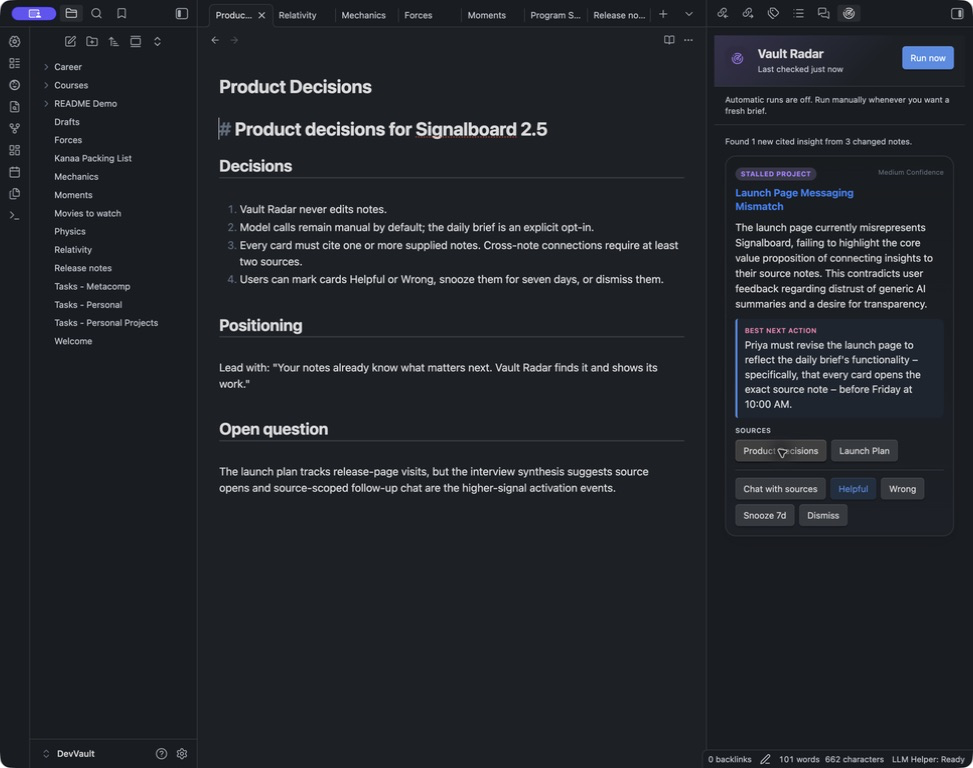
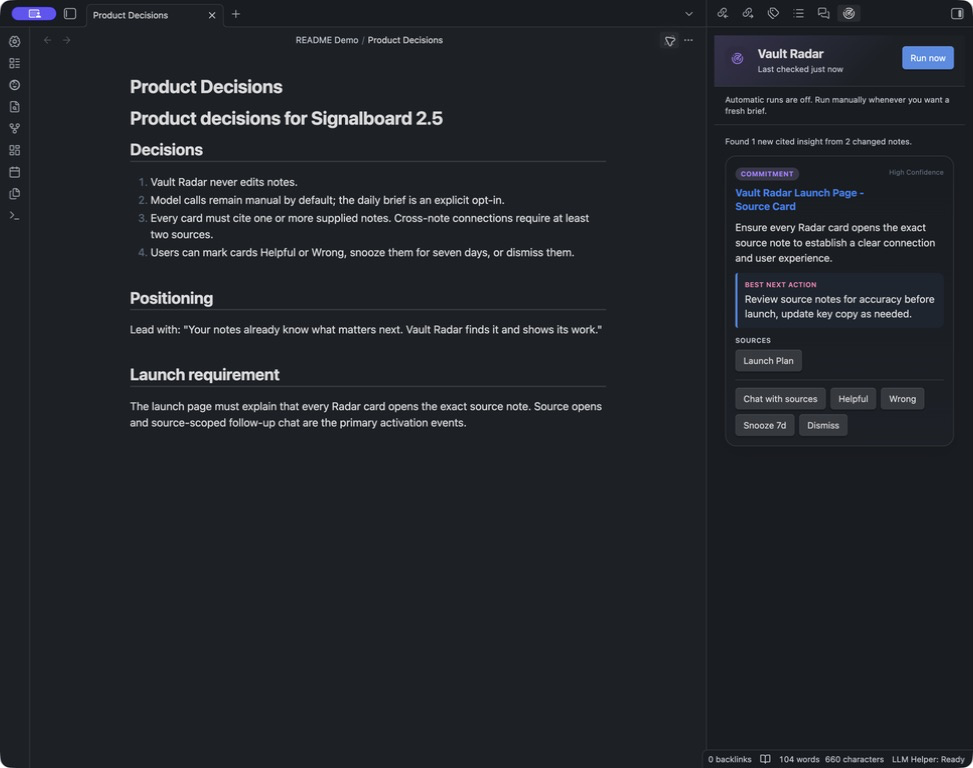
docs: refresh README visuals and architecture

diff --git a/README.md b/README.md
@@ -29,11 +29,13 @@
 
 <p align="center">
   <img src="assets/vault-radar.png" width="920" alt="Vault Radar beside a cited source note in Obsidian">
+  <br>
+  <sub>Vault Radar turns changed notes into a small, cited brief. Captured in a synthetic demo vault with file navigation hidden.</sub>
 </p>
 
-## Not another chat box
+## From questions to signals
 
-Most AI note tools wait for the perfect prompt. Local LLM Helper can also surface what your recent notes imply:
+Chat is useful when you know what to ask. Vault Radar adds another loop: it turns recently changed notes into a small, cited brief you can inspect without composing a prompt. It can surface:
 
 - a commitment that is about to slip;
 - a project blocked by an unresolved decision;
@@ -53,26 +55,59 @@ That is **Vault Radar**. Every card cites the exact Markdown notes behind it. Op
 | **Review workflows** | Draft weekly reviews, meeting tasks, and project updates from indexed context. Every write still requires approval. |
 | **Bring your own model** | Use Ollama, LM Studio, vLLM, LocalAI, OpenAI, or another server with OpenAI-compatible endpoints. |
 
+## How it works
+
+Local LLM Helper runs inside Obsidian. It sends only the context needed for the feature you invoke, then keeps its semantic index and plugin state locally in your vault.
+
+```mermaid
+flowchart LR
+    subgraph Device["Your device"]
+        V["Markdown vault"] --> P["Local LLM Helper"]
+        P --> R["Radar excerpts + direct prompts"]
+        P --> N["Note chunks"]
+        P --> T["Question, active note, or selection"]
+        X["Local vector index"] --> S["Local similarity search"]
+        Y["Query vector"] --> S
+        S --> Q["Scoped prompt + retrieved context"]
+        O["Cited answers, cards, and drafts"] --> U["Open sources or approve writes"]
+    end
+
+    subgraph Endpoints["Endpoints you configure"]
+        C["Chat endpoint"]
+        E["Embedding endpoint"]
+    end
+
+    R --> C
+    Q --> C
+    N -->|index| E
+    E -->|document vectors| X
+    T -->|retrieve| E
+    E -->|query vector| Y
+    C --> O
+```
+
+There is no Local LLM Helper cloud service: requests go only to chat and embedding endpoints you configure, plus a search provider you explicitly select when you run web search.
+
 ## Vault Radar: from signal to evidence
 
 Radar reads a bounded set of recently changed Markdown notes and asks your configured chat model for high-signal, source-grounded cards.
 
-```text
-changed notes
-    ↓ bounded excerpts
-your configured /v1/chat/completions endpoint
-    ↓ grounded JSON
-cited insight cards
-    ├─ open the exact note
-    ├─ chat with those sources
-    ├─ Helpful / Wrong
-    └─ Snooze / Dismiss
+```mermaid
+flowchart LR
+    A["Changed Markdown notes"] --> B["Bounded excerpts"]
+    B --> C["Configured chat endpoint"]
+    C --> D["Grounded cards<br/>with source IDs"]
+    D --> E["Open exact sources"]
+    D --> F["Chat with those sources"]
+    D --> G["Helpful / Wrong<br/>Snooze / Dismiss"]
 ```
 
 After the first successful scan, Radar is incremental: unchanged notes are not repeatedly sent. A resilient local state file remembers scan versions, citations, feedback, snoozes, and dismissals. Large-vault state and prompt size are both bounded.
 
 <p align="center">
-  <img src="assets/source-scoped-chat.png" width="360" alt="Notes chat pinned to two Vault Radar sources">
+  <img src="assets/source-scoped-chat.png" width="920" alt="Notes chat pinned to two Vault Radar sources with citations">
+  <br>
+  <sub>Source-scoped chat stays pinned to the two Radar sources and returns clickable citations. Captured in a synthetic demo vault.</sub>
 </p>
 
 ## Quick start with Ollama
@@ -122,7 +157,7 @@ The plugin uses the OpenAI-compatible API format rather than a provider-specific
 
 Chat and embeddings may use different server URLs and API keys. This is useful when, for example, a local Ollama instance handles chat while a separate OpenAI-compatible service handles embeddings.
 
-Tested provider paths include Ollama and the shared OpenAI-compatible request contract. Compatibility fallbacks handle servers that do not implement JSON response mode, while timeouts, retries, response validation, and user-facing errors are centralized in one client.
+Ollama has been smoke-tested end to end. The shared OpenAI-compatible request contract, JSON-mode fallback, timeouts, retries, response validation, and user-facing errors are unit-tested through injected transports and centralized in one client.
 
 ## What leaves your vault
 
@@ -134,7 +169,7 @@ Local LLM Helper has no telemetry and no hosted backend of its own. Data goes on
 | Chat and text actions | Your prompt, selection, active-note context, or chosen note scope | When you submit a request |
 | RAG indexing | Note chunks and supported attachment text | When indexing runs |
 | RAG and Related Notes retrieval | Your question, active-note text, or selected text | When semantic retrieval queries the embedding endpoint |
-| Web search | Your search query | Only when using the configured search provider |
+| Web search | Your query goes to the selected search provider; the query and returned titles/snippets then go to your configured chat endpoint for synthesis | Only when you run web search |
 
 Endpoints can be local or remote. A local URL does not automatically make a remote model private, and a remote URL can send note content off-device. Review [Privacy and Capabilities](PRIVACY.md) before enabling background features.
 
